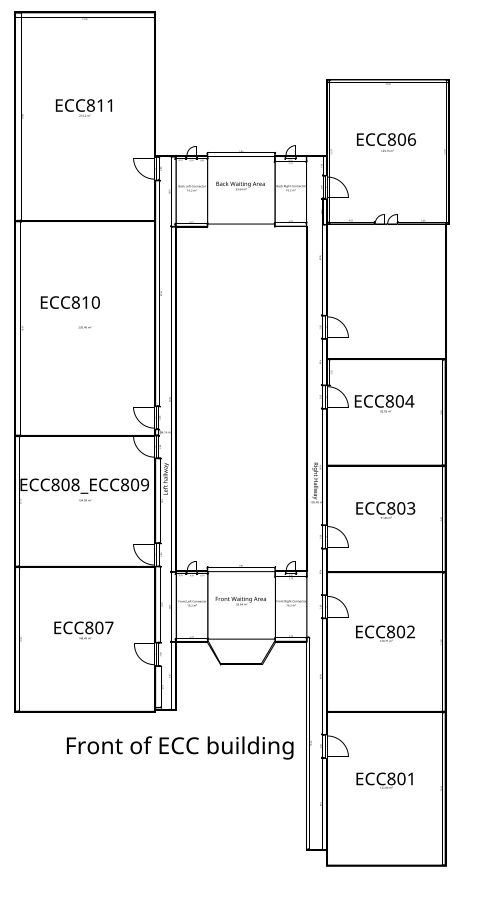
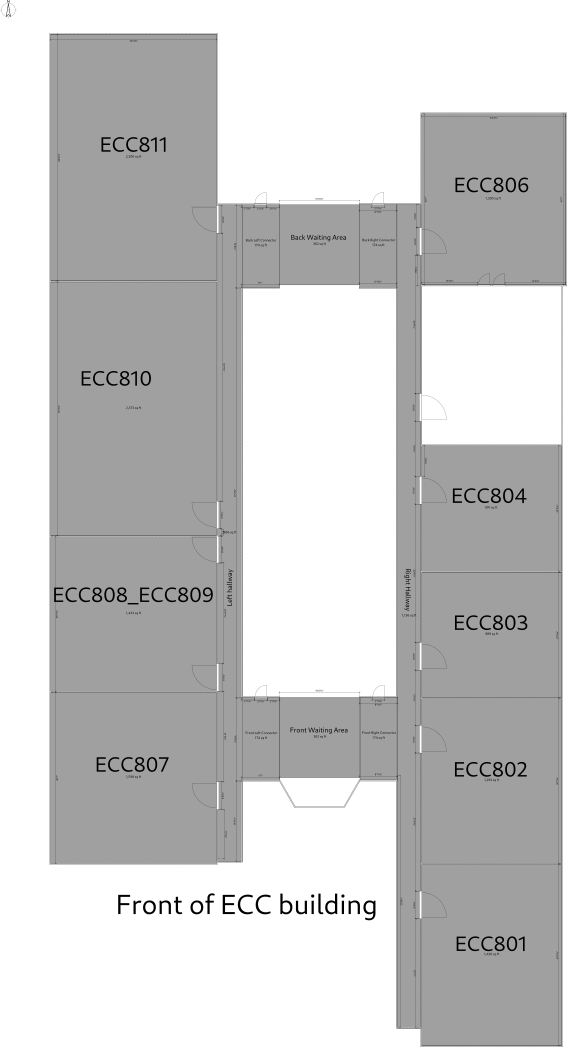
feat: change image
- make image more easier to plot coordinate

- increase the amount of zoom

diff --git a/lib/main.dart b/lib/main.dart
@@ -97,7 +97,7 @@ class MainBody extends State<MainPage> with TickerProviderStateMixin {
     super.dispose();
   }
 
-    // To Scan Bluetooth: Uncomment this
+  // To Scan Bluetooth: Uncomment this
   //var bluetoothNotifer = BluetoothNotifier();
 
   @override
@@ -300,7 +300,7 @@ class MainBody extends State<MainPage> with TickerProviderStateMixin {
             InteractiveViewer(
               transformationController: mapTransformationController,
               minScale: 0.1,
-              maxScale: 1.0,
+              maxScale: 3.0,
               onInteractionStart: _onInteractionStart,
               boundaryMargin: const EdgeInsets.all(double.infinity),
               child: Column(
